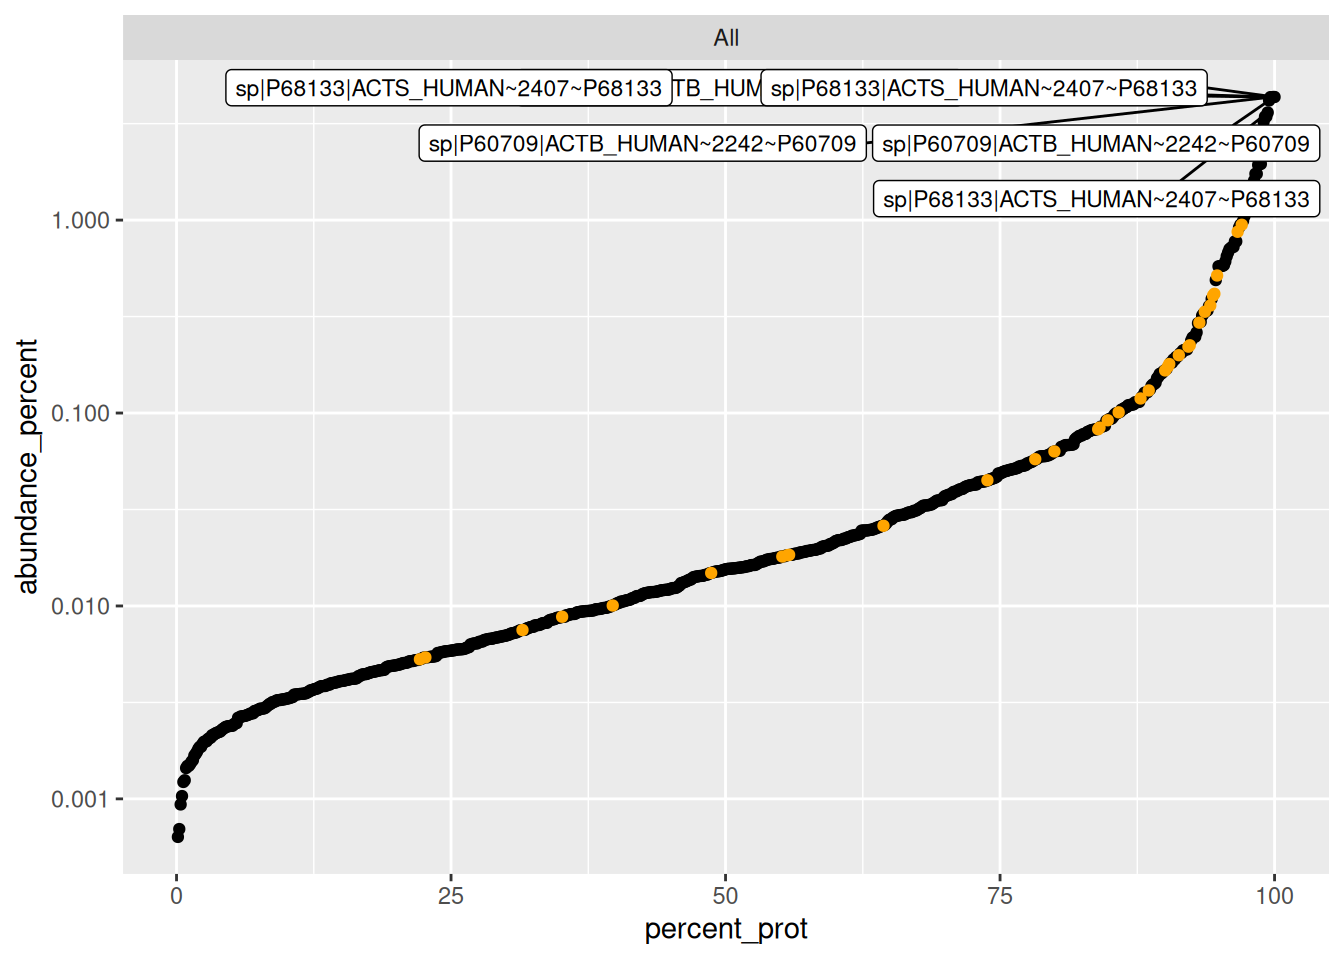
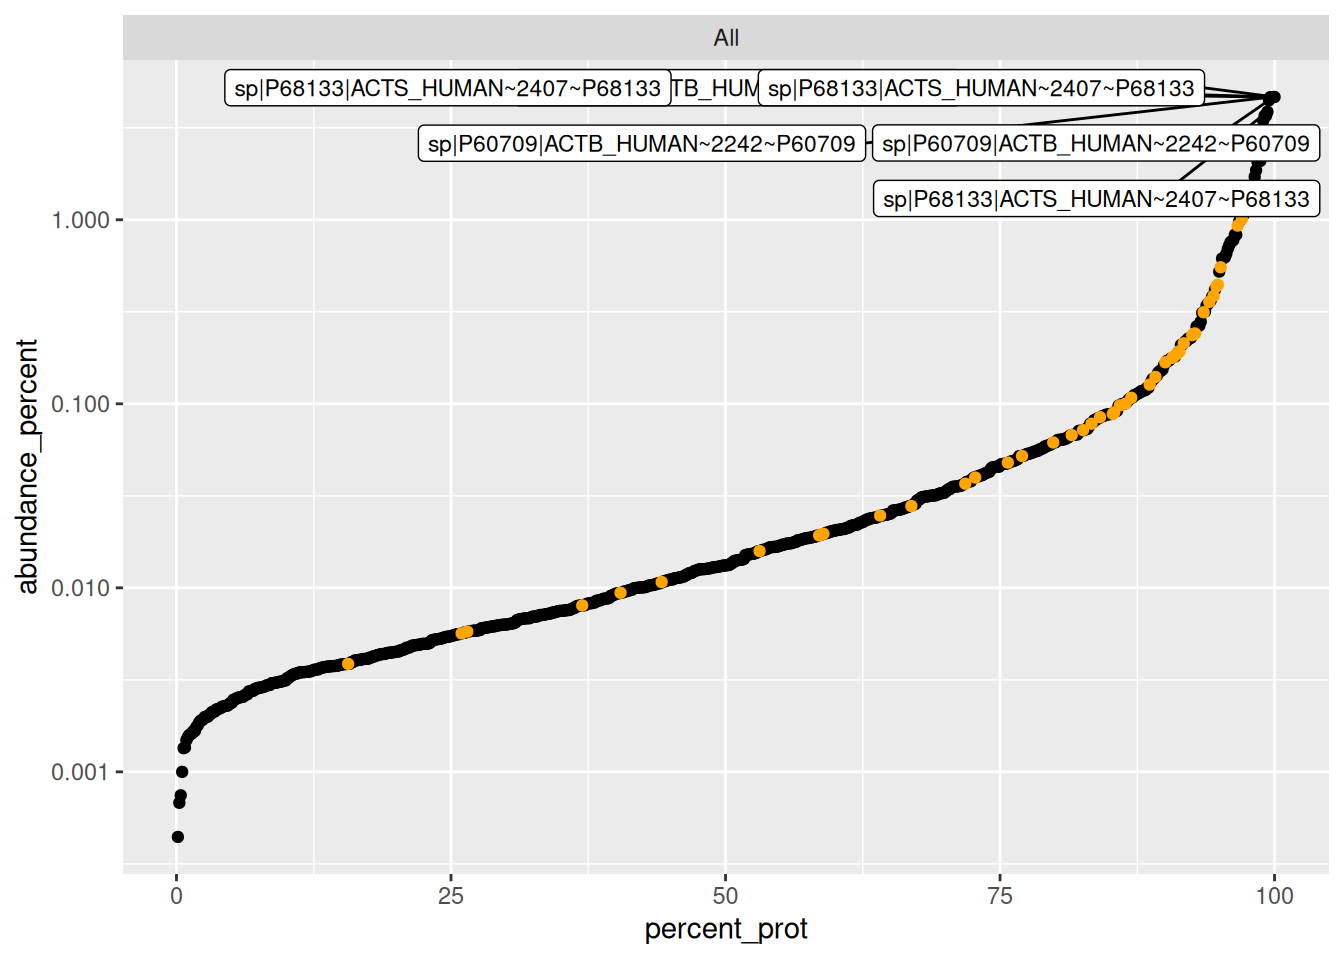
Deploying to gh-pages from @ prolfqua/prolfquapp@55b03af0e46e0f37d30b3664fa5936e741d7af2d 🚀

diff --git a/NEWS.html b/NEWS.html
@@ -870,6 +870,7 @@ ul.task-list li input[type="checkbox"] {
 <section id="prolfquapp-2.6.1" class="level1">
 <h1>prolfquapp 2.6.1</h1>
 <ul>
+<li>Quarto reports now vendor the dynamic horizontal FGCZ toolbar: it stays below the visible banner, pins to the top-right while scrolling, and expands its Find/Download text labels on hover or keyboard focus.</li>
 <li>The Docker image now installs the <code>prolfqua</code> Firth-model performance fix, so <code>firth_nested</code> analyses with very large peptide effects complete instead of spending days on unused coefficient profile-likelihood intervals.</li>
 </ul>
 </section>